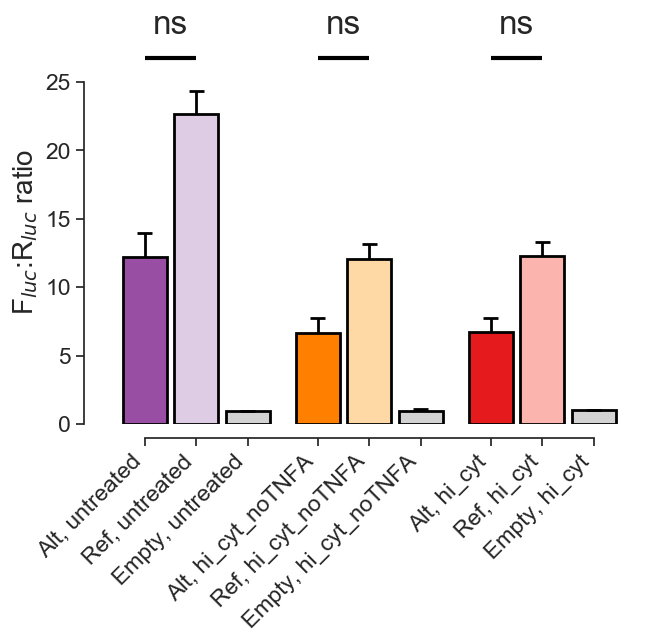
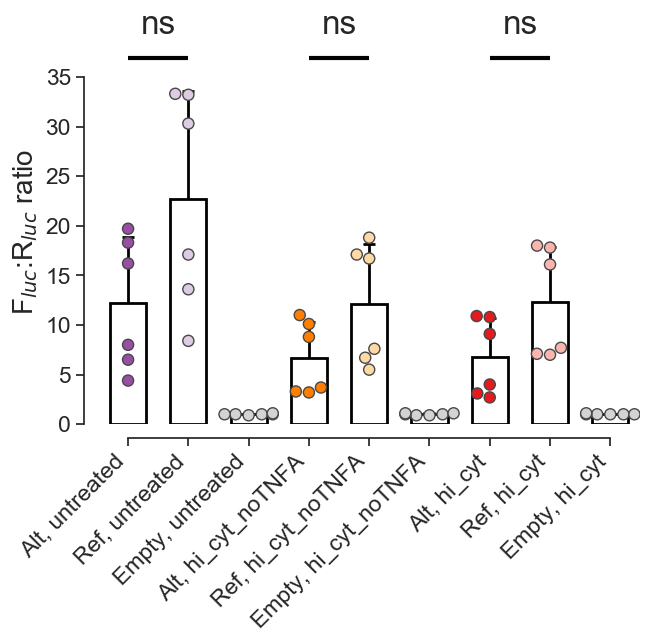
update

diff --git a/README.md b/README.md
@@ -110,13 +110,17 @@ Alt, dex	Ref, dex	Empty, dex	Alt, untreated	Ref, untreated	Empty, untreated
 
 ## Meta-analysis
 
+For this section, we'll use another included command called
+`luciferase-swarmplot`. It functions exactly like `luciferase-barplot` except
+that individual data points will be plotted over the bars.
+
 It may be that we have performed two or more experiments
 (from separate minipreps) and wish to meta-analyze the results. As an example,
 let's consider the results of two identical experiments on a regulatory
 variant at the _SIX3_ locus: [SIX3-MP0](https://github.com/anthony-aylward/luciferase/raw/master/example/six3-mp0.json) and [SIX3-MP1](https://github.com/anthony-aylward/luciferase/raw/master/example/six3-mp1.json). First we'll plot both datasets separately:
 ```sh
-luciferase-barplot six3-mp0.json six3-mp0.png --light-colors '#DECBE4' '#FED9A6' '#FBB4AE' --dark-colors '#984EA3' '#FF7F00' '#E41A1C' --title 'SIX3-MP0'
-luciferase-barplot six3-mp1.json six3-mp1.png --light-colors '#DECBE4' '#FED9A6' '#FBB4AE' --dark-colors '#984EA3' '#FF7F00' '#E41A1C' --title 'SIX3-MP1'
+luciferase-swarmplot six3-mp0.json six3-mp0.png --light-colors '#DECBE4' '#FED9A6' '#FBB4AE' --dark-colors '#984EA3' '#FF7F00' '#E41A1C' --title 'SIX3-MP0'
+luciferase-swarmplot six3-mp1.json six3-mp1.png --light-colors '#DECBE4' '#FED9A6' '#FBB4AE' --dark-colors '#984EA3' '#FF7F00' '#E41A1C' --title 'SIX3-MP1'
 ```
 
 <img src="https://github.com/anthony-aylward/luciferase/raw/master/example/six3-mp0.png" width="400"/><img src="https://github.com/anthony-aylward/luciferase/raw/master/example/six3-mp1.png" width="400"/>
@@ -129,7 +133,7 @@ one plot to get the most accurate conclusions about allelic effects.
 
 We might simply combine the data into one dataset, (as [here](https://github.com/anthony-aylward/luciferase/raw/master/example/six3-meta-nobatch.json)) and plot it:
 ```sh
-luciferase-barplot six3-meta-nobatch.json six3-meta-nobatch.png --light-colors '#DECBE4' '#FED9A6' '#FBB4AE' --dark-colors '#984EA3' '#FF7F00' '#E41A1C'
+luciferase-swarmplot six3-meta-nobatch.json six3-meta-nobatch.png --light-colors '#DECBE4' '#FED9A6' '#FBB4AE' --dark-colors '#984EA3' '#FF7F00' '#E41A1C'
 ```
 
 ![meta-analysis without batch](https://github.com/anthony-aylward/luciferase/raw/master/example/six3-meta-nobatch.png)
@@ -163,7 +167,7 @@ indicating the batch of each data point, as in this example:
 Here is what the results look like when they're re-normalized to correct for
 batch
 ```sh
-luciferase-barplot six3-meta.json six3-meta.png --light-colors '#DECBE4' '#FED9A6' '#FBB4AE' --dark-colors '#984EA3' '#FF7F00' '#E41A1C' --title 'SIX3-META'
+luciferase-swarmplot six3-meta.json six3-meta.png --light-colors '#DECBE4' '#FED9A6' '#FBB4AE' --dark-colors '#984EA3' '#FF7F00' '#E41A1C' --title 'SIX3-META'
 ```
 
 ![meta-analysis with batch](https://github.com/anthony-aylward/luciferase/raw/master/example/six3-meta.png)
